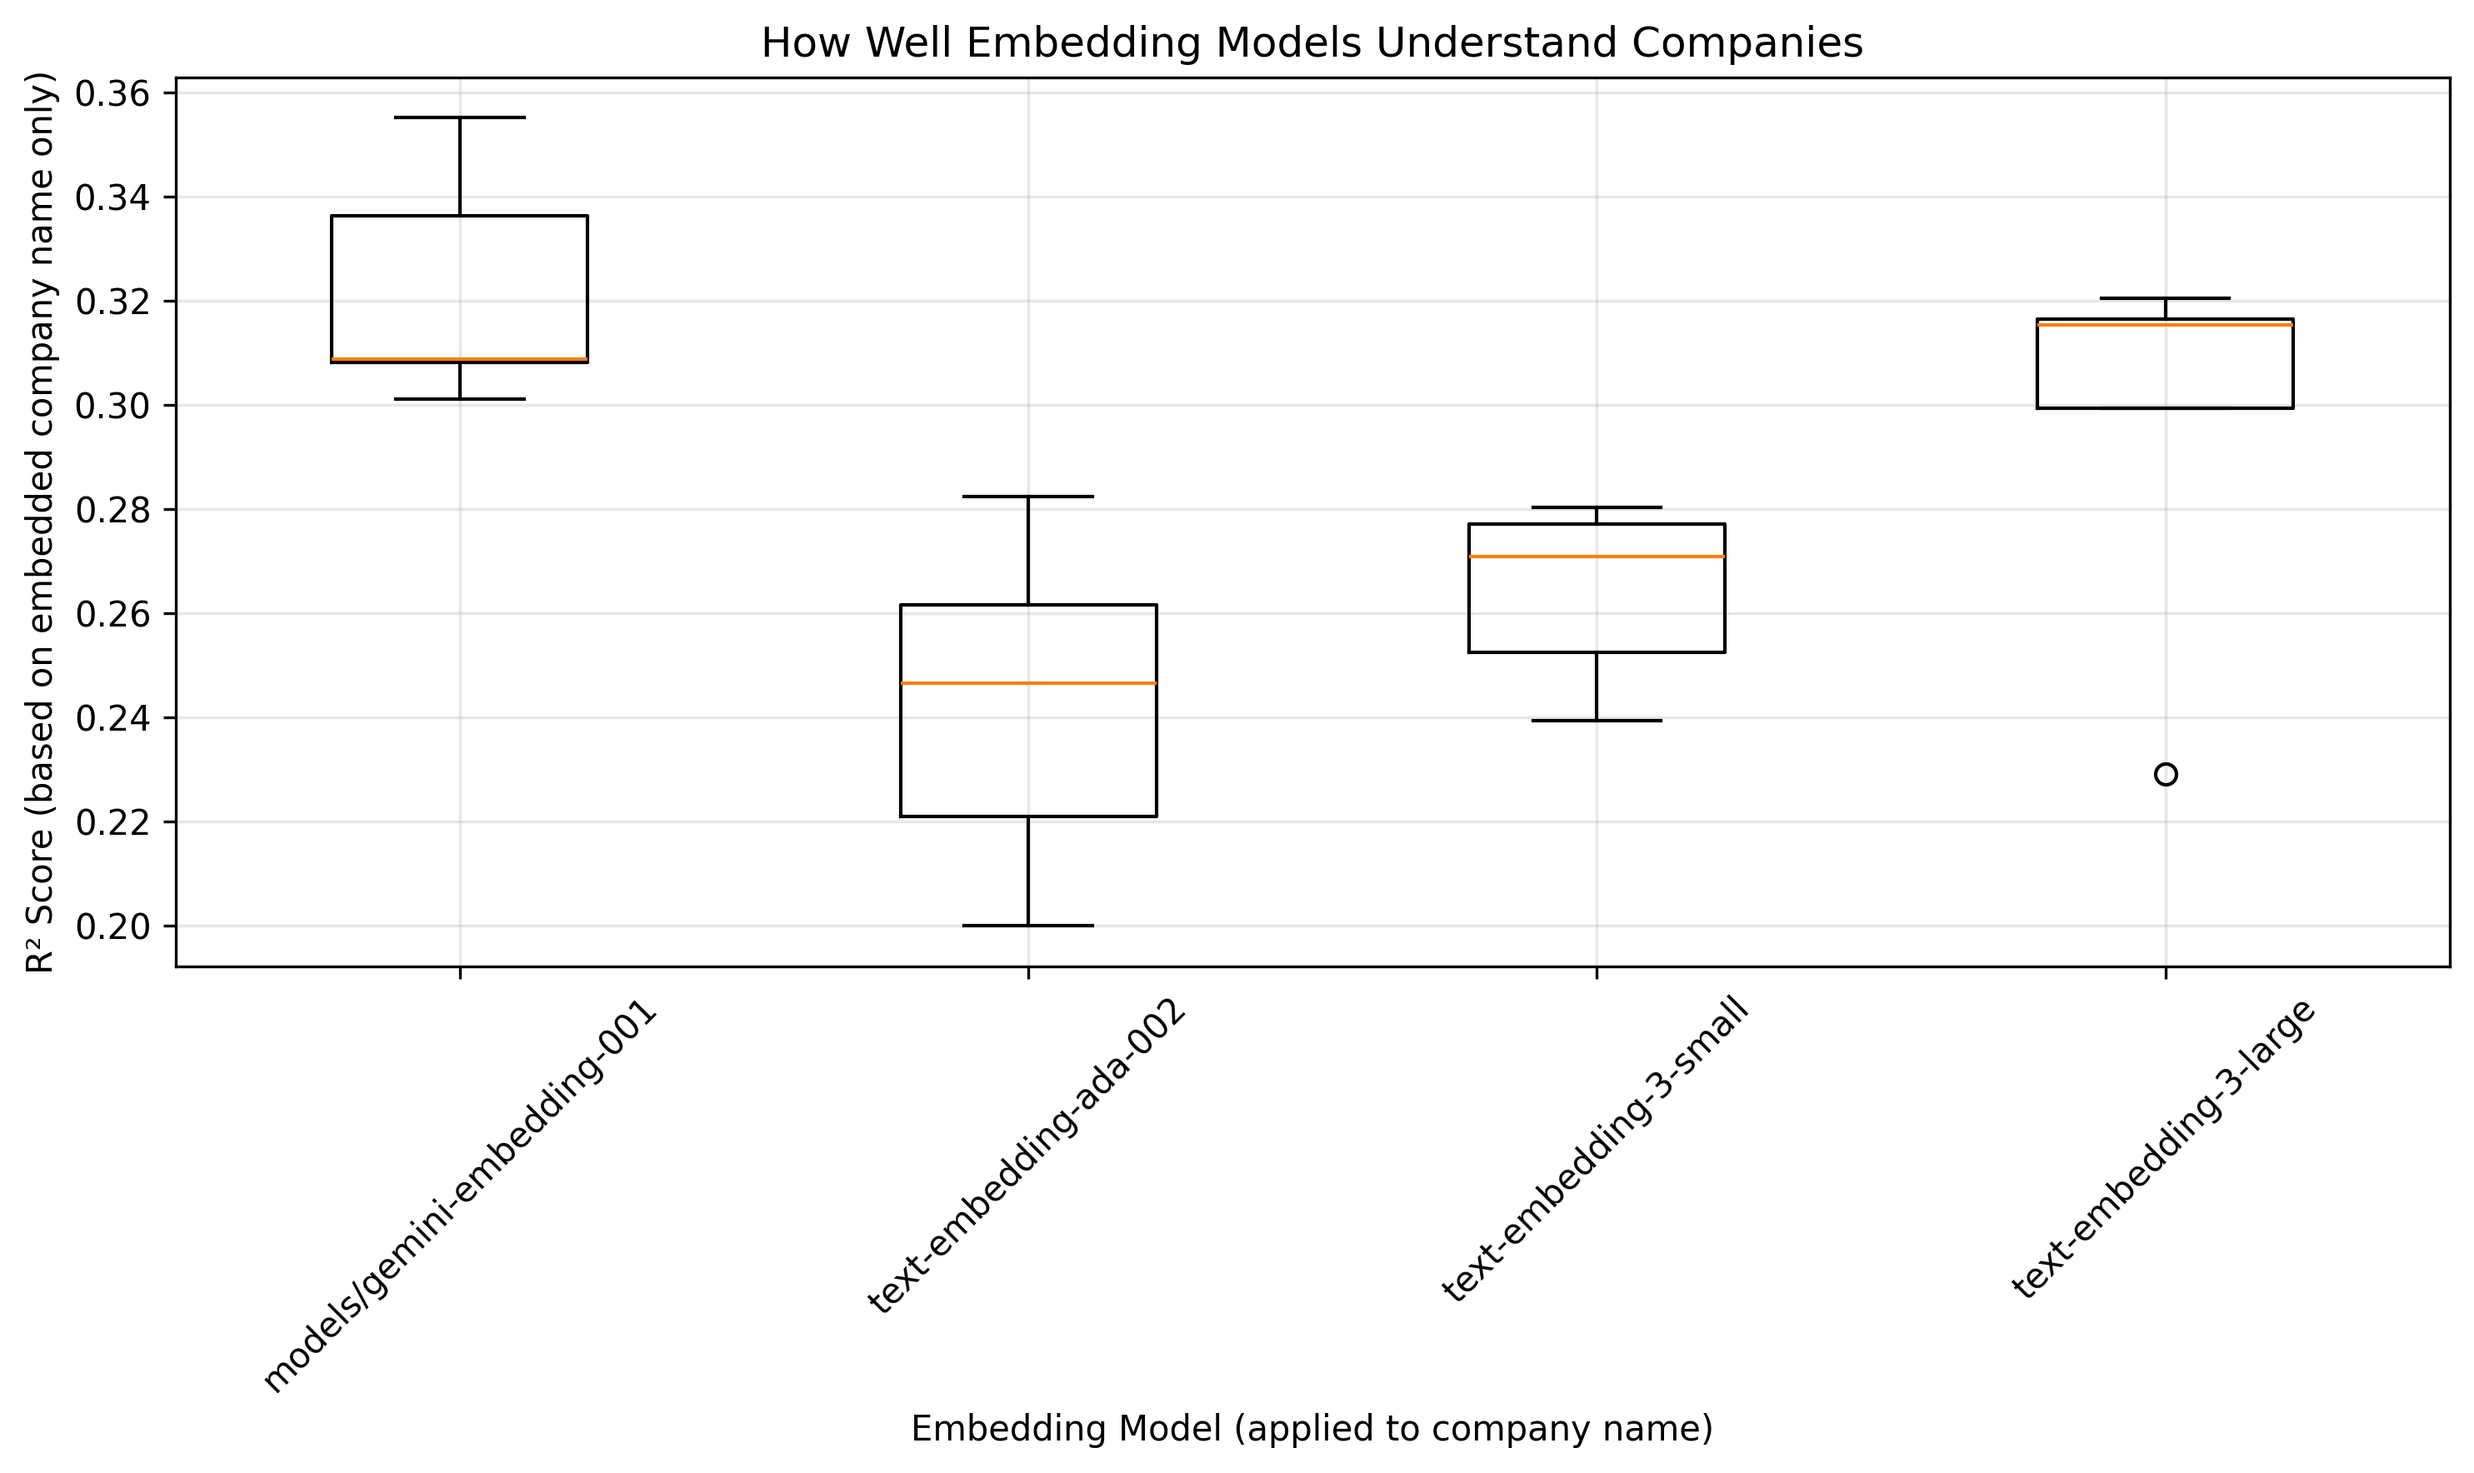
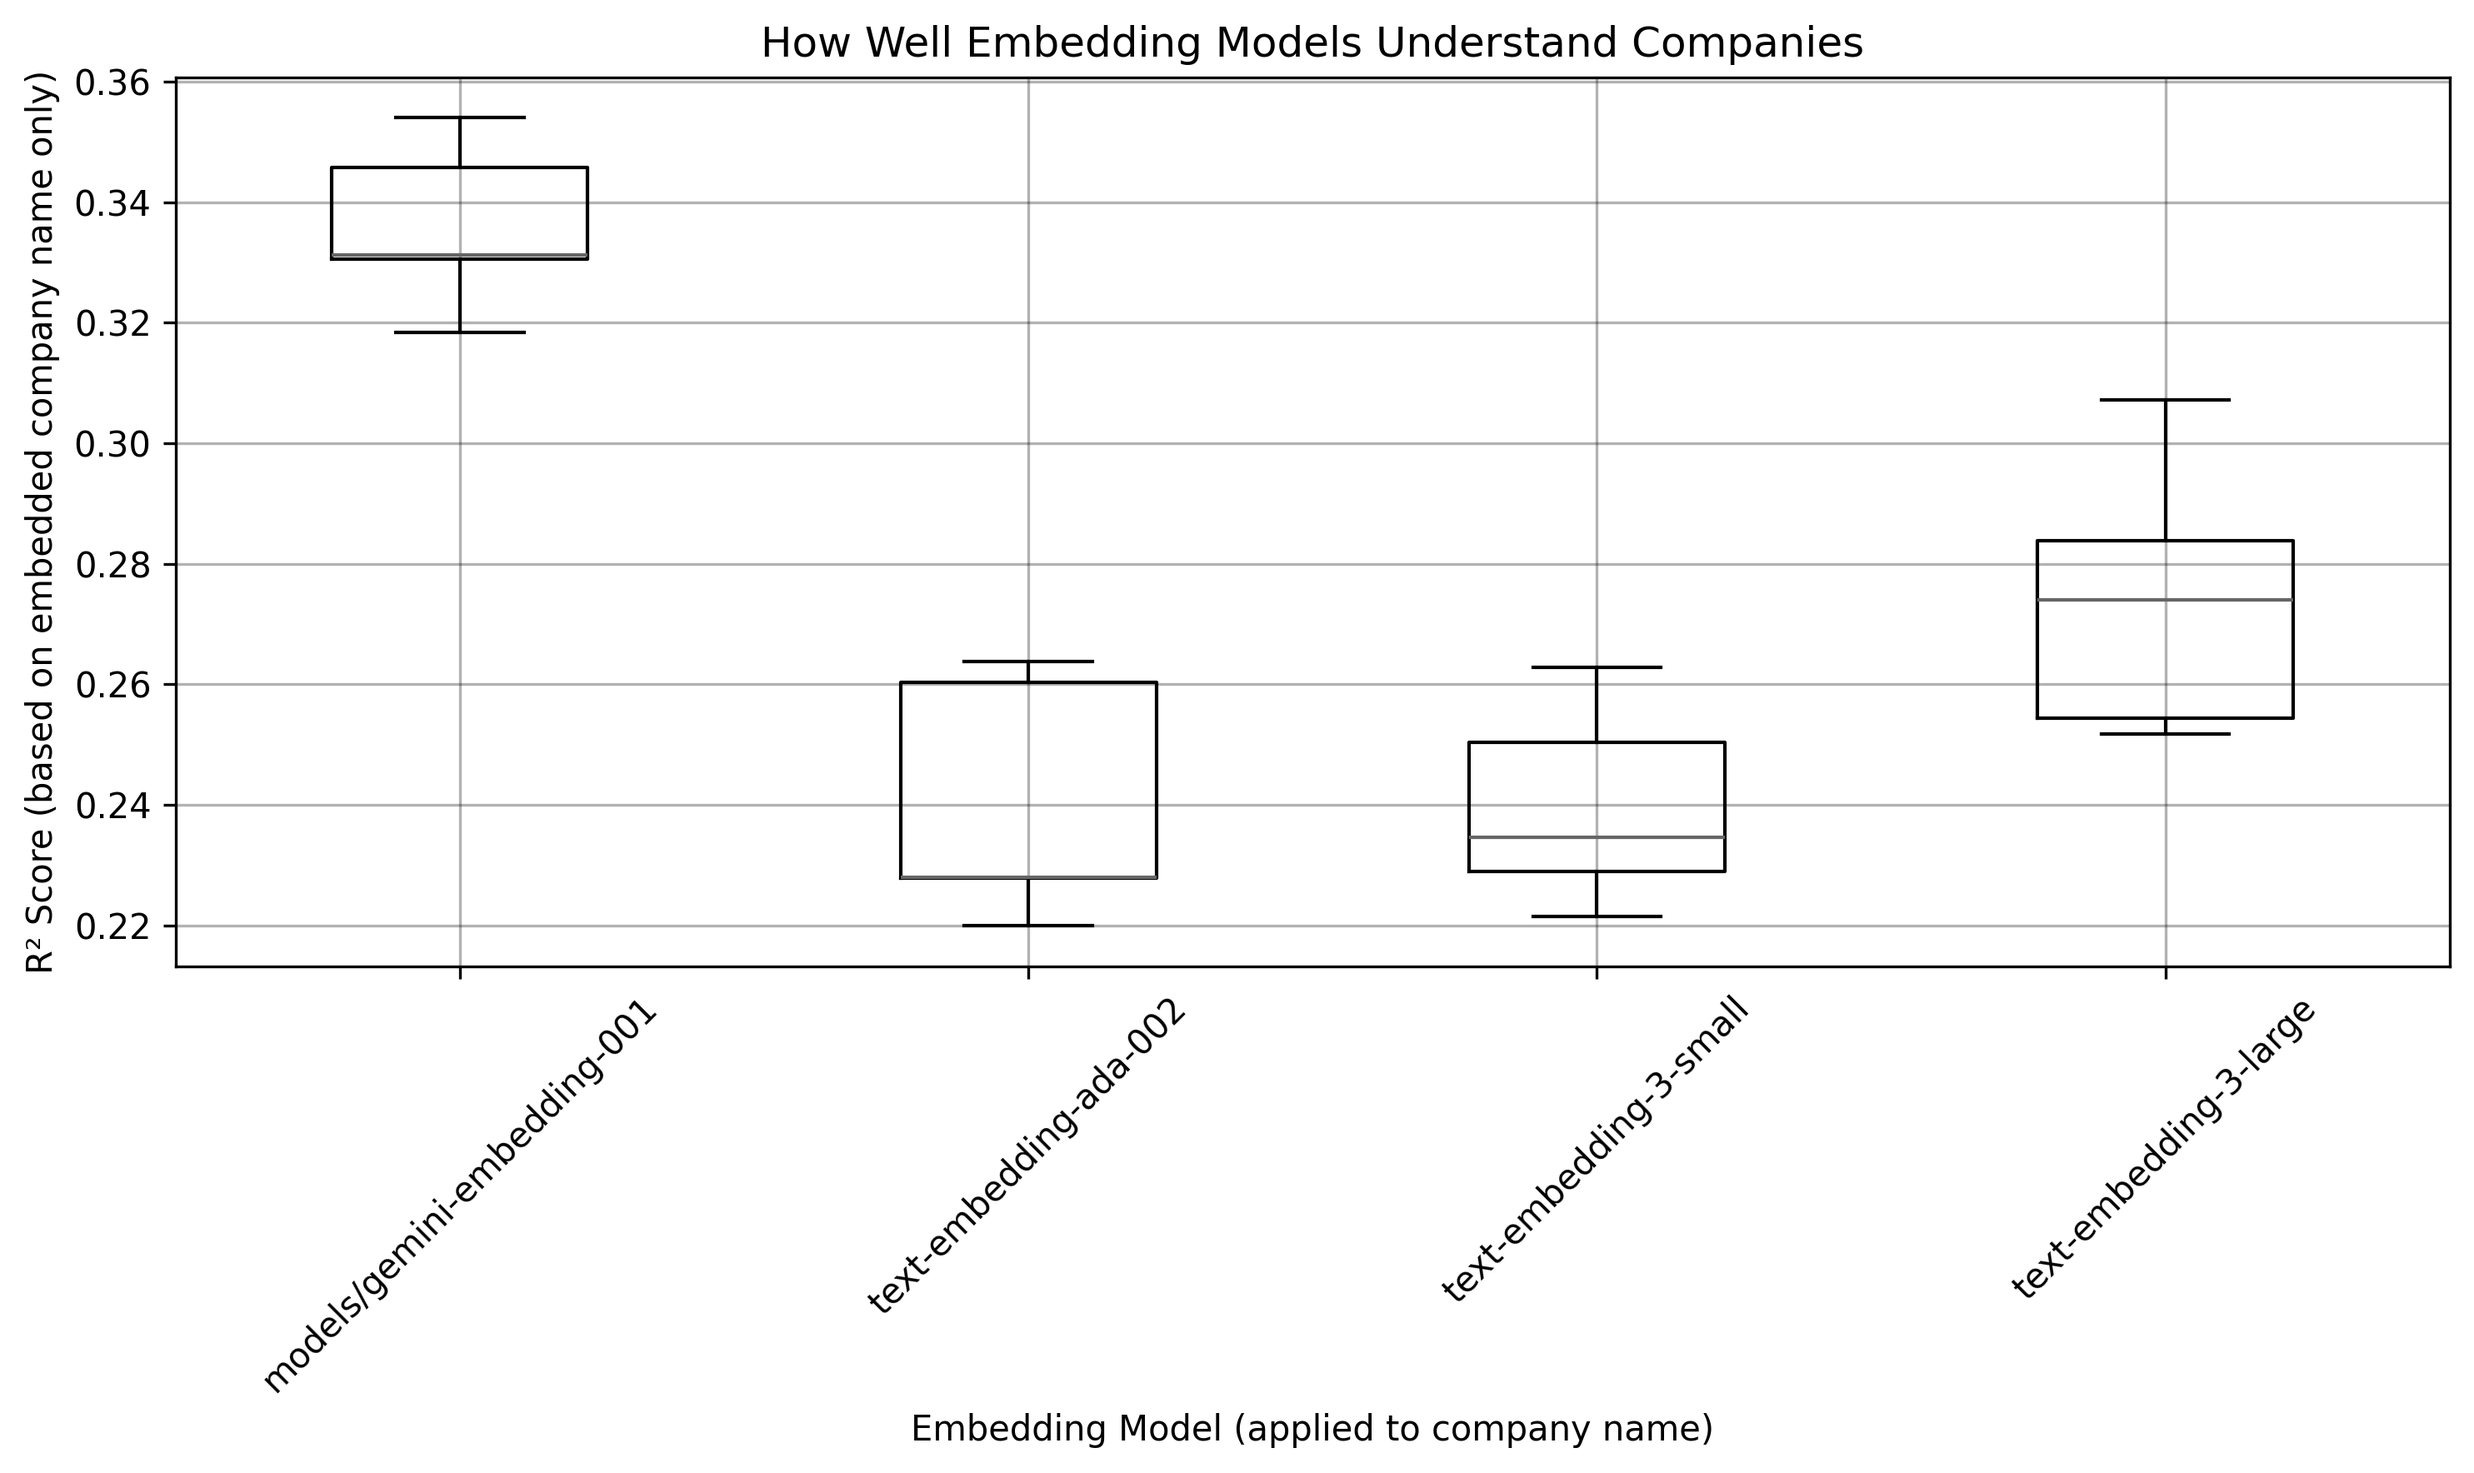
fix: Apply models on same split to remove flakiness

diff --git a/cli.py b/cli.py
@@ -234,13 +234,12 @@ def run_embedding_classification(run_count: int = 5):
     ]
 
     results_per_model = {}
-    for embedder in embedders:
-        results_per_run = []
-        model_name = embedder.model
+    for _ in range(1, run_count + 1):
+        # split per run, so each model uses same splits
+        df_train, df_test = train_test_split(df_agg, test_size=0.25)
 
-        for _ in range(1, run_count + 1):
-            # split per run
-            df_train, df_test = train_test_split(df_agg, test_size=0.25)
+        for embedder in embedders:
+            model_name = embedder.model
 
             print("\n")
             print("#" * 50)
@@ -311,7 +310,13 @@ def run_embedding_classification(run_count: int = 5):
 
             # Evaluate the model on test set
             metrics = evaluate_similarity_predictions(df_test["similarity"], y_pred)
-            results_per_run.append(metrics)
+
+            # add the run metrics to the results per model
+            try:
+                results_per_model[model_name].append(metrics)
+            except KeyError:
+                # first run of model
+                results_per_model[model_name] = [metrics]
 
             # Create results dataframe with test predictions
             df_test_results = df_test.copy()
@@ -328,9 +333,6 @@ def run_embedding_classification(run_count: int = 5):
                     ]
                 ].head()
             )
-
-        results_per_model[model_name] = results_per_run
-        print(results_per_run)
 
     # Create box plot
     create_box_plot(results_per_model)
